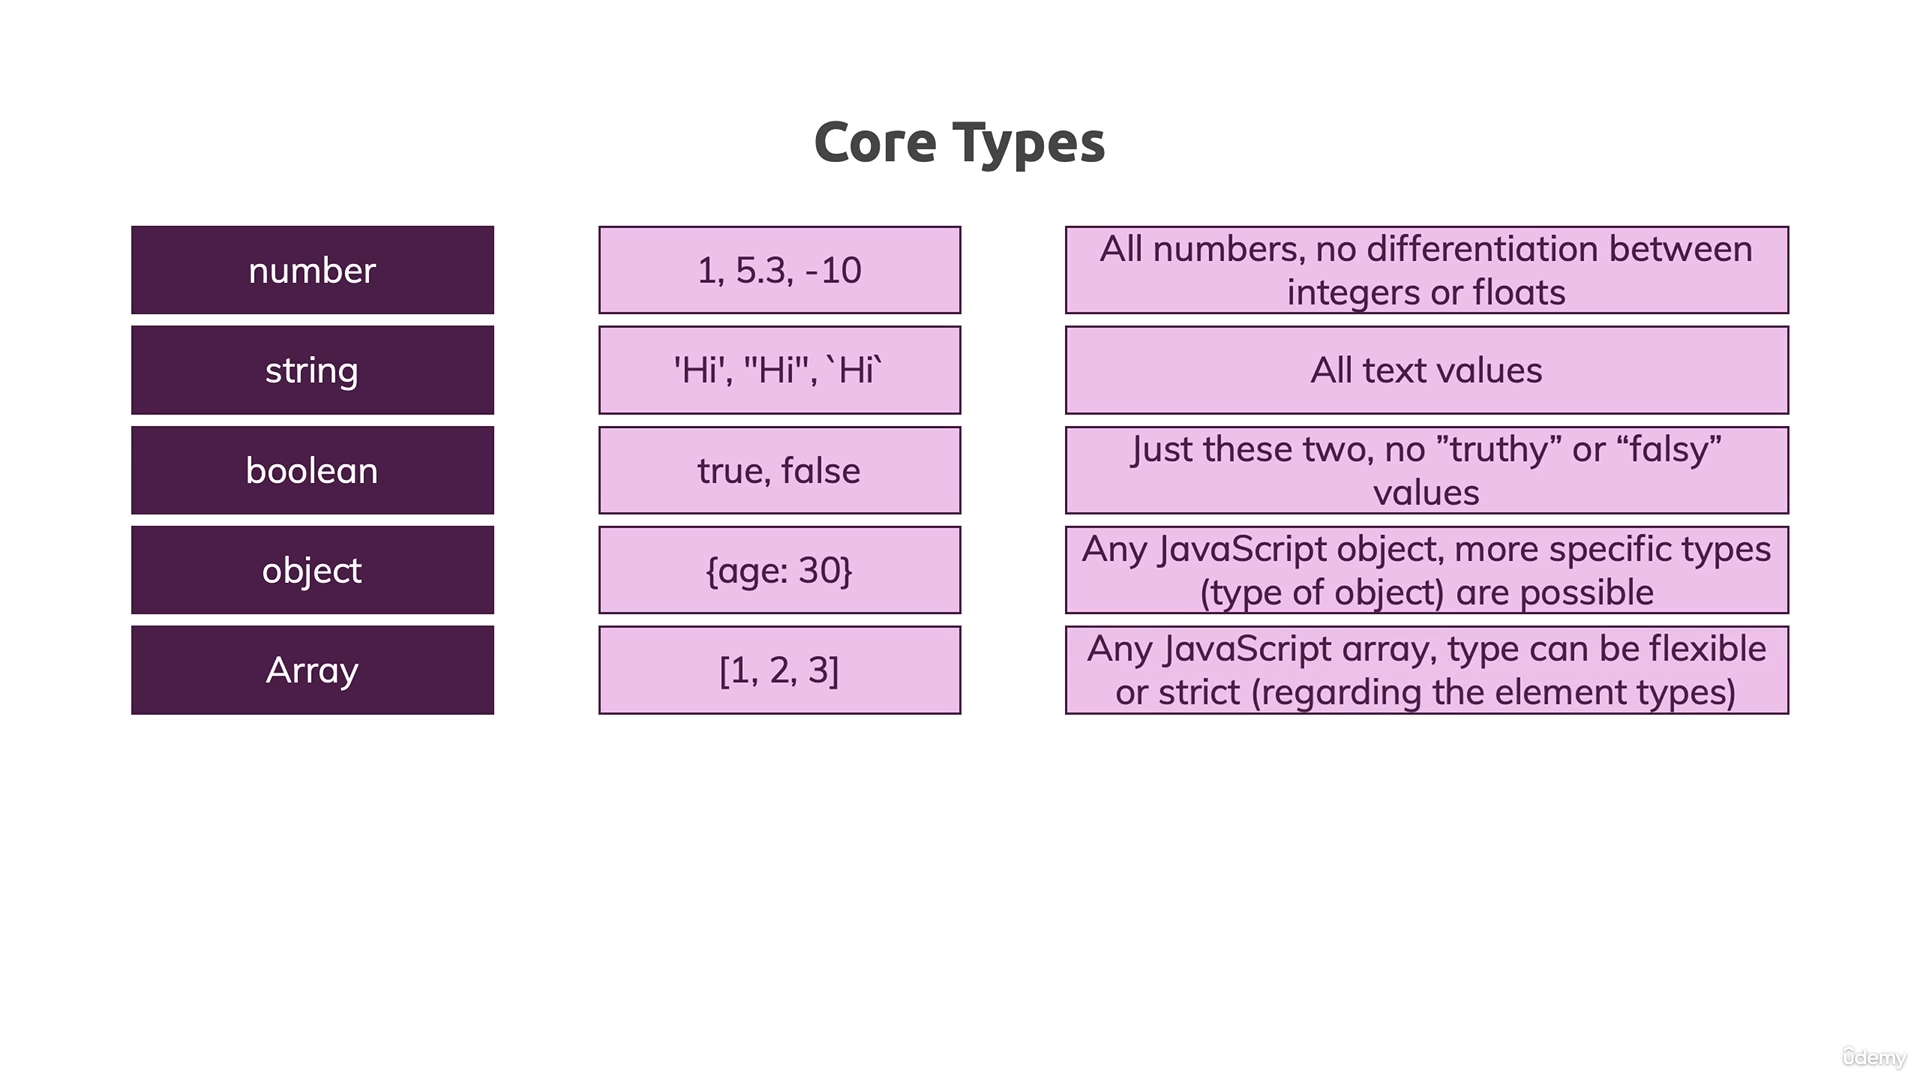
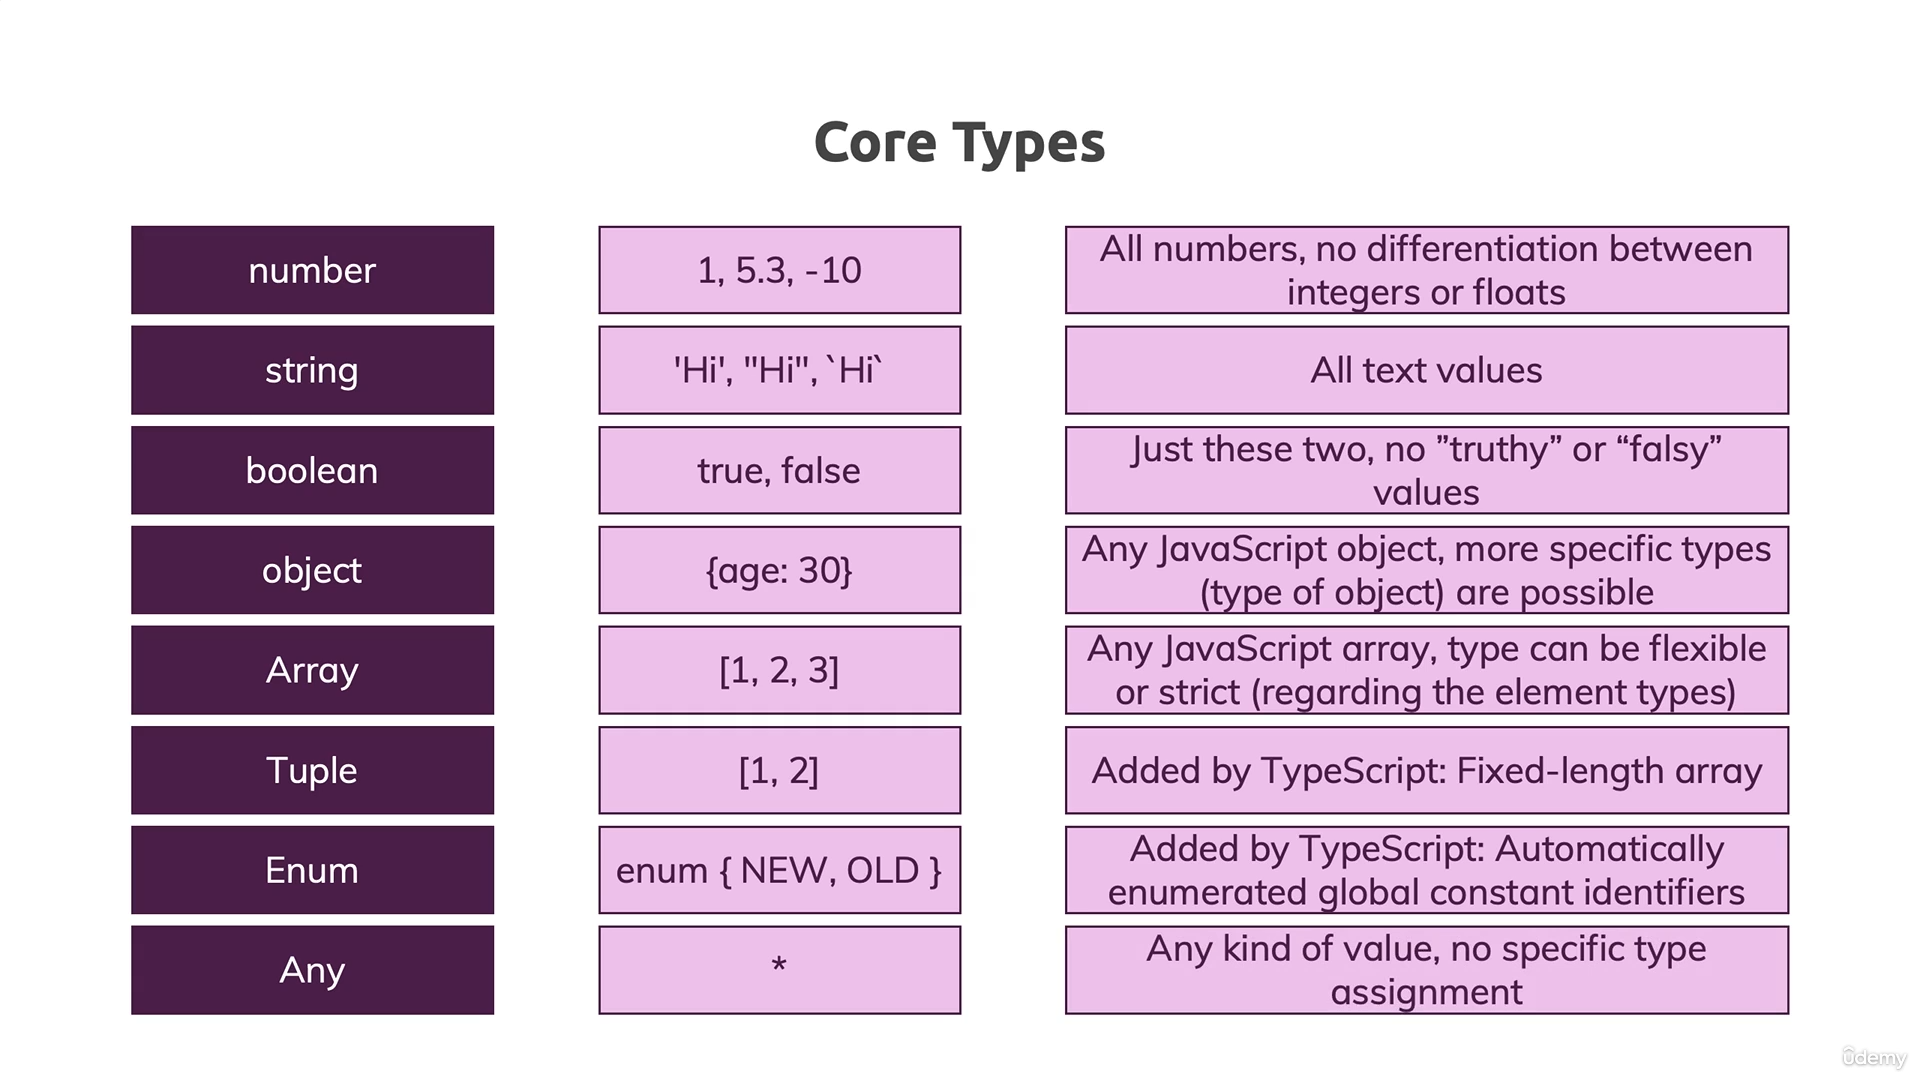
Completed upto Alias types

Changed region(s): [[0.5307, 0.6722, 0.9365, 0.9472], [0.0624, 0.6722, 0.281, 0.9472], [0.3122, 0.6722, 0.4995, 0.9472]]

diff --git a/17 TypeScript/_Core-TypeScript.md b/17 TypeScript/_Core-TypeScript.md
@@ -71,28 +71,25 @@ console.log(add(2, 3.5));   // 5.5
 console.log(add('2', 3));   // Error
 ```
 ⚠ **Note :** The key difference is: **Javascript use "dynamic types"** (resolved at runtime), **TypeScript uses "static types"** (set during development)
-
+* Number Type
 ```javascript
-// Number Type
 let age : number = 1;
 
 function add (n1:number, n2:number) {
     return n1 + n2;
 }
 ```
-
+* Boolean Type 
 ```javascript
-// Boolean Type
 let isLogin : boolean = true;
 ```
+* String Type
 
 ```javascript
-// String Type
 let fullName : string = 'Deepinder Singh';
 ```
-
+* Object Type
 ```javascript
-// Object Type
 type Person{
     name : String;
     age : Number
@@ -104,9 +101,9 @@ let person : Person={
 }
 console.log(person.name);
 ```
+* Array String & Nested Array
 
 ```javascript
-// Array Strimg & Nested Array
 type Product {
   id: String;
   price: Number;
@@ -130,9 +127,8 @@ const product : Product = {
   }
 }
 ```
-
+* Tuple
 ```javascript
-// Tuple
 type Person {
     name : String;
     age : Number;
@@ -147,6 +143,55 @@ let person : Person = {
 
 // Because in tupal we cannot add more than two element
 person.role.push('operator')    // Error
+```
+* Enum Type
+  
+```javascript
+enum Role {ADMIN = 1, READ_ONLY = 2, AUTHOR = 3};
+let person = {
+    name : 'Deepinder',
+    age : 19,
+    role : Role.ADMIN
+}
+
+if(person.role === Role.ADMIN) {
+    console.log('Admin')
+}
+```
+* Any
+  
+```javascript
+type Person {
+    role : any[];
+}
+
+let person : Person = {
+    role : [2, 'Admin', true]
+}
+```
+* Union Type
+  
+```javascript
+let age : number | string;
+
+```
+* Literal Type
+```javascript
+function test (name : 'Deepu' | 'Dp') {
+    return name
+}
+
+test('Dp');
+test('ok'); // cause error because value not in option
+```
+
+* Types Aliases Custom Types
+```javascript
+type Role = number | string;
+type ValidUser = boolean | number;
+
+let role: Role; 
+let isLogin  : ValidUser;
 ```
 
 ⚠ **Note :** 
